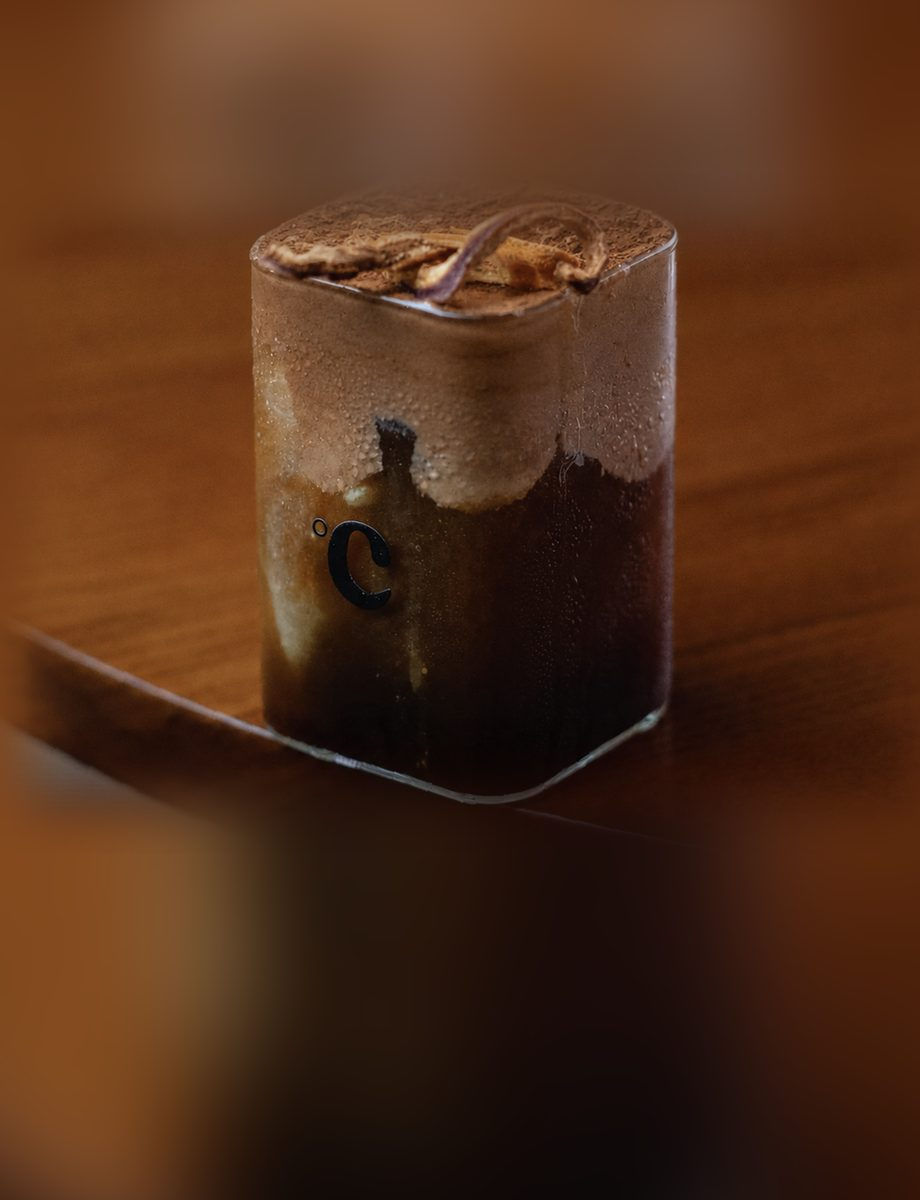
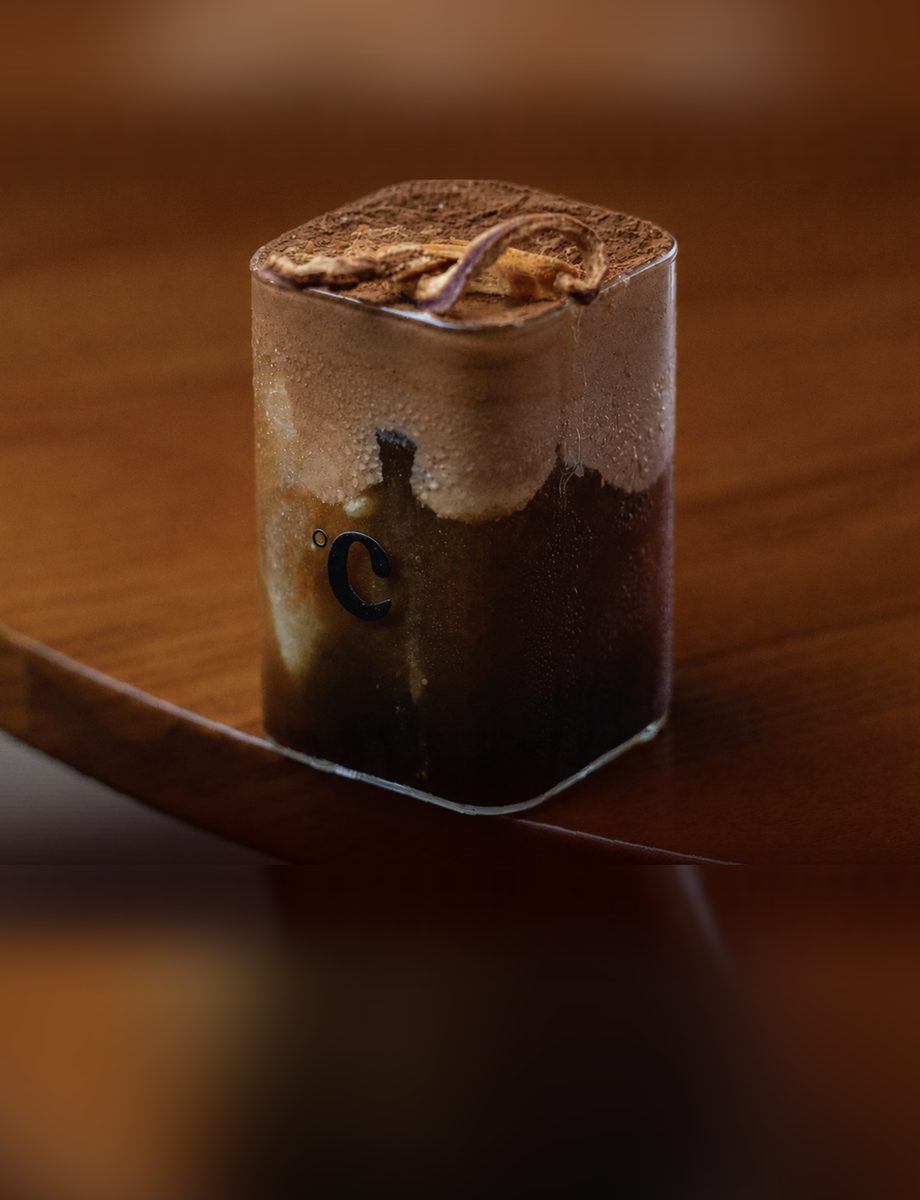
docs: stop the poster feather from blurring the drink
The plate technique feathered the real photo into the blurred backdrop with a
130px inset on all four sides. The cream cap sits on the crop's first row, so
that ramp landed ON the drink: at the top of the glass the photo was only
10/255 opaque -- 96% of the cap was blurred plate -- and the base 177/255.

Feather a smeared margin instead of the photo. The margin is grown from the
image's own edge bands, except at the top, where nothing inside the crop is
drink-free: that band comes from the backdrop above the A4's baked rule.
Stretching the photo's own top rows there smeared the cap into vertical
streaks above the cup.

Also drops the crop line from y=400 to y=387, the first row under the rule --
400 was shaving the top of the cream. Edge detail across the cap is up ~25%
and the glass geometry on every surface is unchanged.

A guard now asserts the feather mask is fully opaque across the whole drink.

diff --git a/docs/design/assets/choc-blanc/canvas/make-heroes.py b/docs/design/assets/choc-blanc/canvas/make-heroes.py
@@ -17,8 +17,9 @@ import os
 from PIL import Image, ImageFilter
 
 SRC   = "choc_blanc_a4_300dpi.png"
-CLEAN = (0, 400, 2483, 2100)      # A4 photo area, below the baked header rule
-GLASS = (690, 415, 1720, 1935)    # glass bbox within the A4
+CLEAN = (0, 387, 2483, 2100)      # A4 photo area, first row under the baked rule
+GLASS = (690, 388, 1720, 1935)    # glass bbox: the cream cap starts at the crop top
+TOP_BG = (0, 336, 2483, 378)      # clean backdrop ABOVE the rule -- drink-free, text-free
 PW, PH = 3600, 4400               # plate: room for a full-bleed window at any aspect
 GLASS_TOP = 900                   # where the glass top lands in the plate
 
@@ -29,11 +30,58 @@ OX = (PW - src.width) // 2
 OY = GLASS_TOP - (GLASS[1] - CLEAN[1])
 
 plate = src.resize((PW, PH), Image.LANCZOS).filter(ImageFilter.GaussianBlur(120))
+
+
+BAND = 24
+
+
+def _grow(im, pad, top=None, bot_band=BAND):
+    """Add pad rows above and below im, stretching a source band into each.
+
+    `top` is the band to stretch upward; without one, im's own top BAND rows.
+    """
+    w, h = im.size
+    top = top or im.crop((0, 0, w, BAND))
+    bot = im.crop((0, h - bot_band, w, h))
+    # a band stretched ~8x turns its own grain into streaks; blur it back out
+    grain = ImageFilter.GaussianBlur(12)
+    o = Image.new("RGB", (w, h + 2 * pad))
+    o.paste(top.resize((w, pad), Image.LANCZOS).filter(grain), (0, 0))
+    o.paste(im, (0, pad))
+    o.paste(bot.resize((w, pad), Image.LANCZOS).filter(grain), (0, pad + h))
+    return o
+
+
+def smear(im, pad, top):
+    """Grow im by pad on all four sides so the feather never touches the drink.
+
+    The cream cap starts on the crop's FIRST ROW, so a feather inset into the
+    photo lands ON THE DRINK -- it was blending the cap 96% into the blurred
+    plate. Feathering a smeared margin instead keeps the ramp off the photo.
+
+    Nothing inside the crop is drink-free above the glass, so the top margin
+    comes from `top` -- the backdrop above the A4's baked rule. Stretching the
+    photo's own top rows there would smear the cap upward into vertical streaks.
+    """
+    v = _grow(im, pad, top).transpose(Image.ROTATE_90)
+    return _grow(v, pad).transpose(Image.ROTATE_270)
+
+
+PAD = 320                          # must exceed F so the ramp stays off the glass
 F = 130
-mask = Image.new("L", src.size, 0)
-mask.paste(255, (F, F, src.width - F, src.height - F))
+ext = smear(src, PAD, a4.crop(TOP_BG))
+mask = Image.new("L", ext.size, 0)
+mask.paste(255, (F, F, ext.width - F, ext.height - F))
 mask = mask.filter(ImageFilter.GaussianBlur(F / 2))
-plate.paste(src, (OX, OY), mask)
+# guard: the real photo must be FULLY opaque across the whole drink, margin
+# included -- a partly-transparent glass is a glass blended into the blur.
+_gx0, _gy0 = GLASS[0] - CLEAN[0] + PAD, GLASS[1] - CLEAN[1] + PAD
+_gx1, _gy1 = GLASS[2] - CLEAN[0] + PAD, GLASS[3] - CLEAN[1] + PAD
+_m = mask.crop((_gx0 - 24, _gy0 - 24, _gx1 + 24, _gy1 + 24)).getextrema()[0]
+assert _m == 255, f"feather reaches the drink (min alpha {_m}/255)"
+assert TOP_BG[3] <= CLEAN[1], "top backdrop band overlaps the photo crop"
+
+plate.paste(ext, (OX - PAD, OY - PAD), mask)
 
 g = (GLASS[0] - CLEAN[0] + OX, GLASS[1] - CLEAN[1] + OY,
      GLASS[2] - CLEAN[0] + OX, GLASS[3] - CLEAN[1] + OY)
